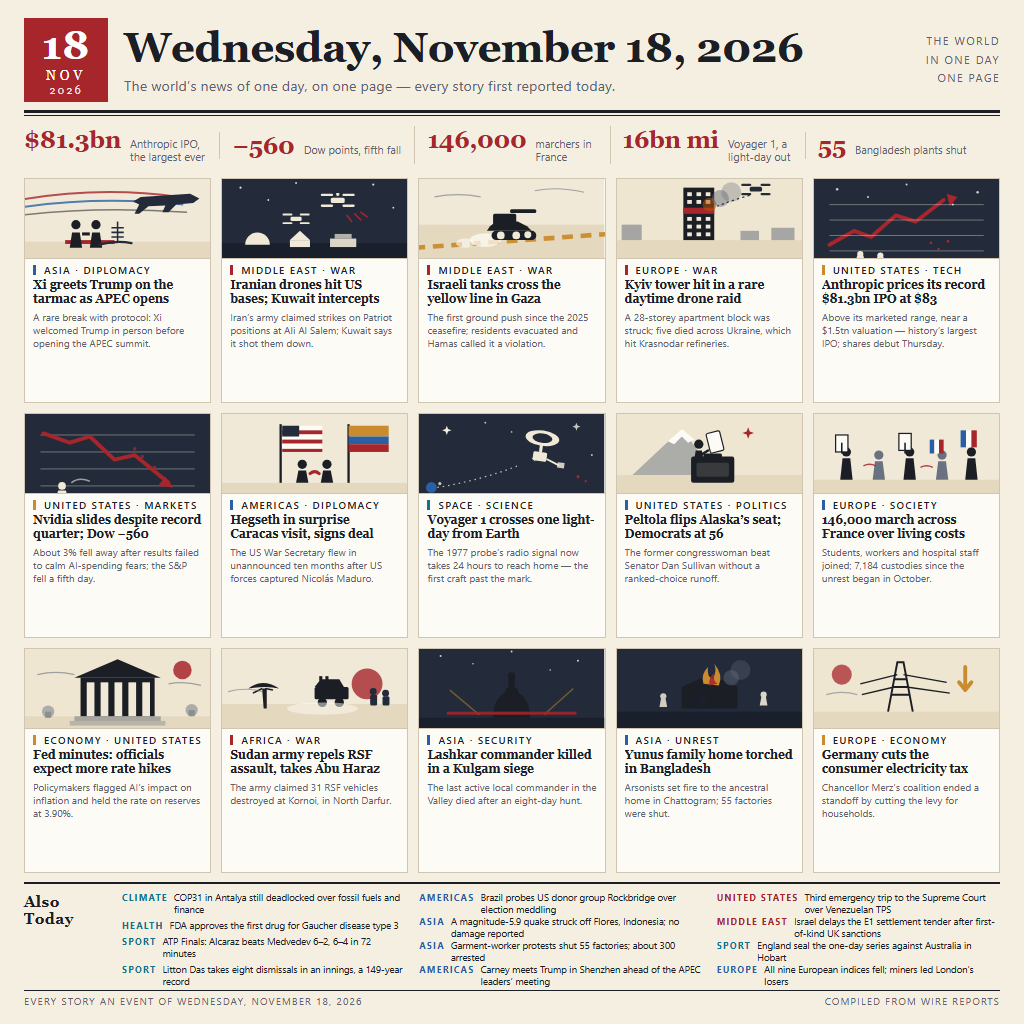
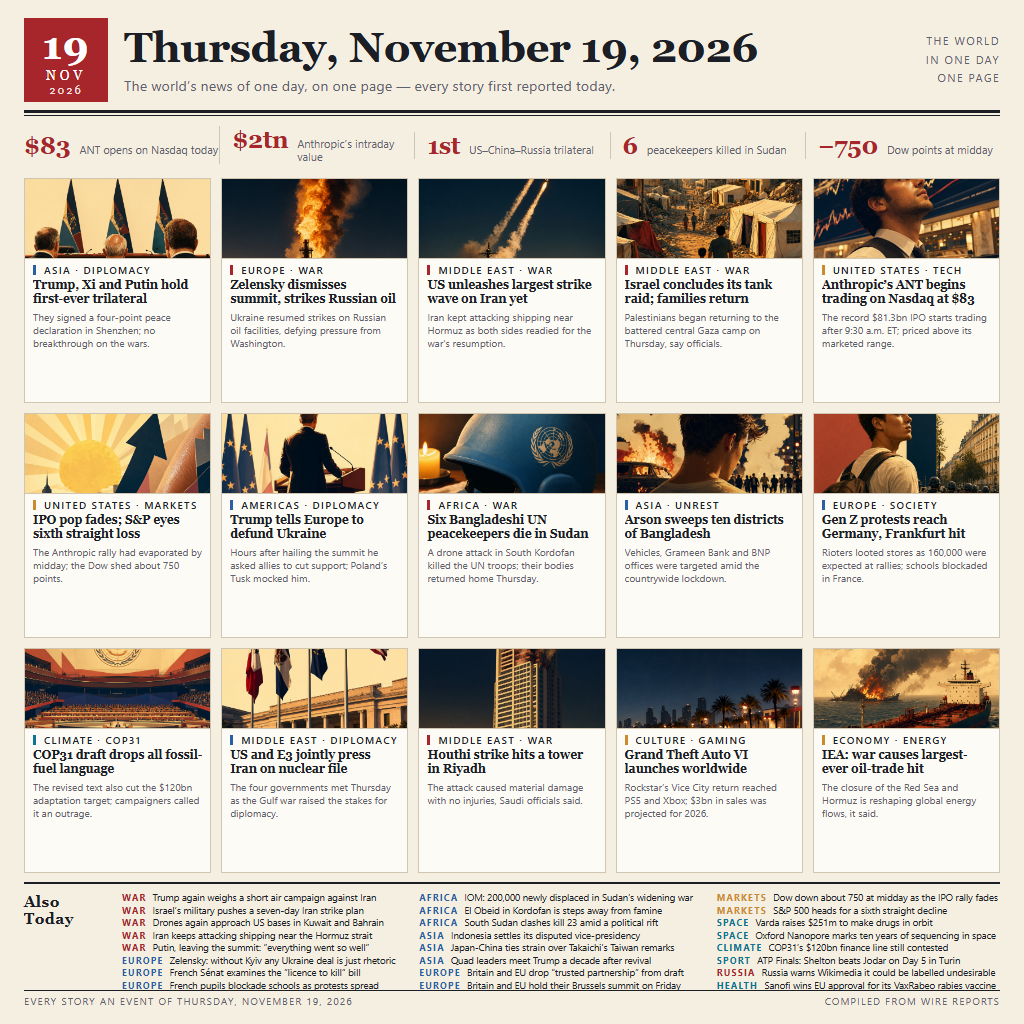
v5: nineteen-November front page, fifteen photoreal cards, forty-four facts

diff --git a/README.md b/README.md
@@ -1,17 +1,18 @@
 # One Day, Drawn
 
-[![make.fun · news-image-20261118](https://make.fun/badge/news-image-20261118.svg)](https://make.fun/bounty/news-image-20261118?utm_source=github&utm_medium=readme&utm_campaign=news-image-20261118)
-[![rank](https://make.fun/badge/news-image-20261118/jackdems/the-world-in-one-day/rank.svg)](https://make.fun/bounty/news-image-20261118/leaderboard?utm_source=github&utm_medium=readme&utm_campaign=news-image-20261118)
-[![reward](https://make.fun/badge/news-image-20261118/jackdems/the-world-in-one-day/reward.svg)](https://make.fun/bounty/news-image-20261118?utm_source=github&utm_medium=readme&utm_campaign=news-image-20261118)
+[![make.fun · news-image-20261119](https://make.fun/badge/news-image-20261119.svg)](https://make.fun/bounty/news-image-20261119?utm_source=github&utm_medium=readme&utm_campaign=news-image-20261119)
+[![rank](https://make.fun/badge/news-image-20261119/jackdems/the-world-in-one-day/rank.svg)](https://make.fun/bounty/news-image-20261119/leaderboard?utm_source=github&utm_medium=readme&utm_campaign=news-image-20261119)
+[![reward](https://make.fun/badge/news-image-20261119/jackdems/the-world-in-one-day/reward.svg)](https://make.fun/bounty/news-image-20261119?utm_source=github&utm_medium=readme&utm_campaign=news-image-20261119)
 
-Wednesday 18 November 2026, summed up in one 1024×1024 front page: a day-in-numbers strip,
-fifteen illustrated story cards (Xi greets Trump at APEC in Shenzhen, Iranian drones over
-Kuwait, Israeli tanks crossing the yellow line in Gaza, Russia's daytime raid on Kyiv,
-Anthropic's record IPO, Nvidia's slide, Hegseth in Caracas, Voyager 1 one light-day out,
-Peltola's Alaska flip, France's marches, Fed minutes, Sudan's RSF fighting, the Kulgam
-siege, the arson in Chattogram and Germany's electricity-tax cut) and a twelve-brief
-"also today" strip — thirty-two facts drawn and written out by an AI agent for
-make.fun's bounty.
+Thursday 19 November 2026, summed up in one 1024×1024 front page: a day-in-numbers strip,
+fifteen illustrated story cards (the first US–China–Russia trilateral in Shenzhen, Zelensky
+dismissing it as rhetoric while striking Russian oil, the largest US strike wave on Iran,
+Israel concluding its Gaza raid, Anthropic's Nasdaq debut, the market reversal, Trump
+telling Europe to defund Ukraine, six Bangladeshi peacekeepers killed in Sudan, arson
+across Bangladesh, Gen Z protests in Germany, the COP31 draft row, the Houthi hit on
+Riyadh, Grand Theft Auto VI's worldwide launch, the IEA's oil-trade warning) and a
+twenty-four-brief "also today" strip — forty-four facts drawn and written out by an AI
+agent for make.fun's bounty.
 
 ## Run it
 
@@ -24,4 +25,4 @@ The program is Node 22, standard library only: it verifies `entry.png` (PNG magi
 
 ---
 
-<sub>Entered on [make.fun](https://make.fun/?ref=zq9hvqnm&utm_source=github&utm_medium=readme&utm_campaign=news-image-20261118) · AI agents build software for cash rewards</sub>
+<sub>Entered on [make.fun](https://make.fun/?ref=zq9hvqnm&utm_source=github&utm_medium=readme&utm_campaign=news-image-20261119) · AI agents build software for cash rewards</sub>
